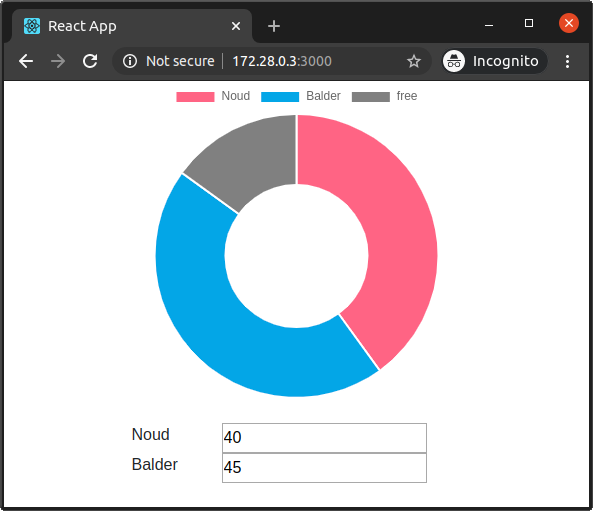
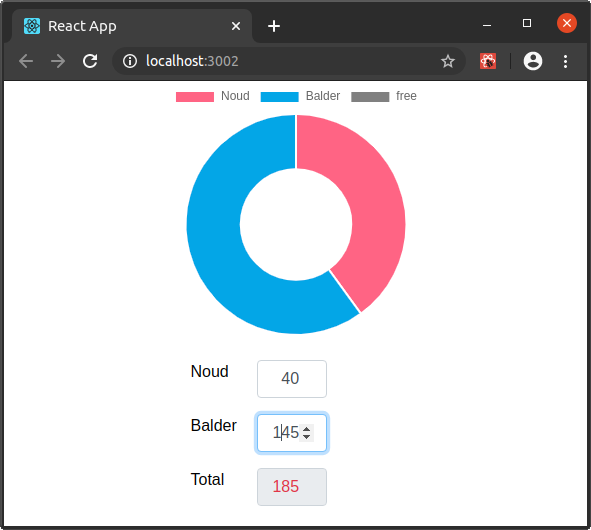
bootstrap form responsive

diff --git a/src/components/ChartAndForm.js b/src/components/ChartAndForm.js
@@ -58,7 +58,7 @@ merge(defaults, {
   },
 });
 
-class MyChart extends React.Component {
+class ChartAndForm extends React.Component {
   constructor(props) {
     super(props);
     this.chartRef = React.createRef();
@@ -148,13 +148,16 @@ class MyChart extends React.Component {
         <Doughnut data={this.state} redraw />
         <br />
         <Container>
-          <Form>
-            {labels.map((value, index) => (
-              <Col sm={{ span: 12, offset: 4 }} md={{ span: 12, offset: 4 }}>
-                <Form.Group as={Row} controlId={index}>
-                  <Form.Label>{labels[index]}</Form.Label>
-                  <Col sm={4} xs={4}>
-                    <Form.Control name={index}
+          <Col xs={{ span: 10, offset: 3 }}>
+            <Form className="Form">
+              {labels.map((value, index) => (
+                <Form.Group as={Row} className="Form-Group-left" controlId={index}>
+                  <Col xs={1}>
+                    <Form.Label>{labels[index]}</Form.Label>
+                  </Col>
+                  <Col xs={{ span: 3, offset: 1 }}>
+                    <Form.Control className="Form-Control-numeric"
+                      name={index}
                       type="number"
                       min="0"
                       max="99"
@@ -163,25 +166,26 @@ class MyChart extends React.Component {
                     />
                   </Col>
                 </Form.Group>
-              </Col>
-            ))}
-            <Col sm={{ span: 12, offset: 4 }} md={{ span: 12, offset: 4 }}>
-              <Form.Group as={Row} controlId={labels.length+1}>
-                <Form.Label>{total.label}</Form.Label>
-                <Col sm={4} xs={4}>
-                  <Form.Control name={"total"}
-                    className={total.color}
+              ))}
+              <Form.Group as={Row} className="Form-Group-left" controlId={labels.length+1}>
+                <Col xs={1} sm={1} md={1}>
+                  <Form.Label>{total.label}</Form.Label>
+                </Col>
+                <Col xs={{ span: 3, offset: 1 }}>
+                  <Form.Control className={total.color + " Form-Control-numeric" }
+                    name={"total"}
                     disabled
+                    type="number"
                     value={total.value}
                   />
                 </Col>
               </Form.Group>
-            </Col>
-          </Form>
+            </Form>
+          </Col>
         </Container>
       </Container>
     );
   }
 }
 
-export default MyChart;
+export default ChartAndForm;

diff --git a/src/App.css b/src/App.css
@@ -2,17 +2,6 @@
   text-align: center;
 }
 
-.App-logo {
-  height: 40vmin;
-  pointer-events: none;
-}
-
-@media (prefers-reduced-motion: no-preference) {
-  .App-logo {
-    animation: App-logo-spin infinite 20s linear;
-  }
-}
-
 .App-header {
   background-color: #282c34;
   min-height: 100vh;
@@ -24,15 +13,14 @@
   color: white;
 }
 
-.App-link {
-  color: #61dafb;
+.Form {
+  color: black;
 }
 
-@keyframes App-logo-spin {
-  from {
-    transform: rotate(0deg);
-  }
-  to {
-    transform: rotate(360deg);
-  }
+.Form-Group-left {
+  text-align: left;
+}
+
+.Form-Control-numeric {
+  text-align: right;
 }

diff --git a/src/App.js b/src/App.js
@@ -1,12 +1,12 @@
 import React from 'react';
 import './App.css';
 
-import MyChart from './components/MyChart';
+import ChartAndForm from './components/ChartAndForm';
 
 function App() {
   return (
     <header className="App">
-      <MyChart />
+      <ChartAndForm />
     </header>
   );
 }
